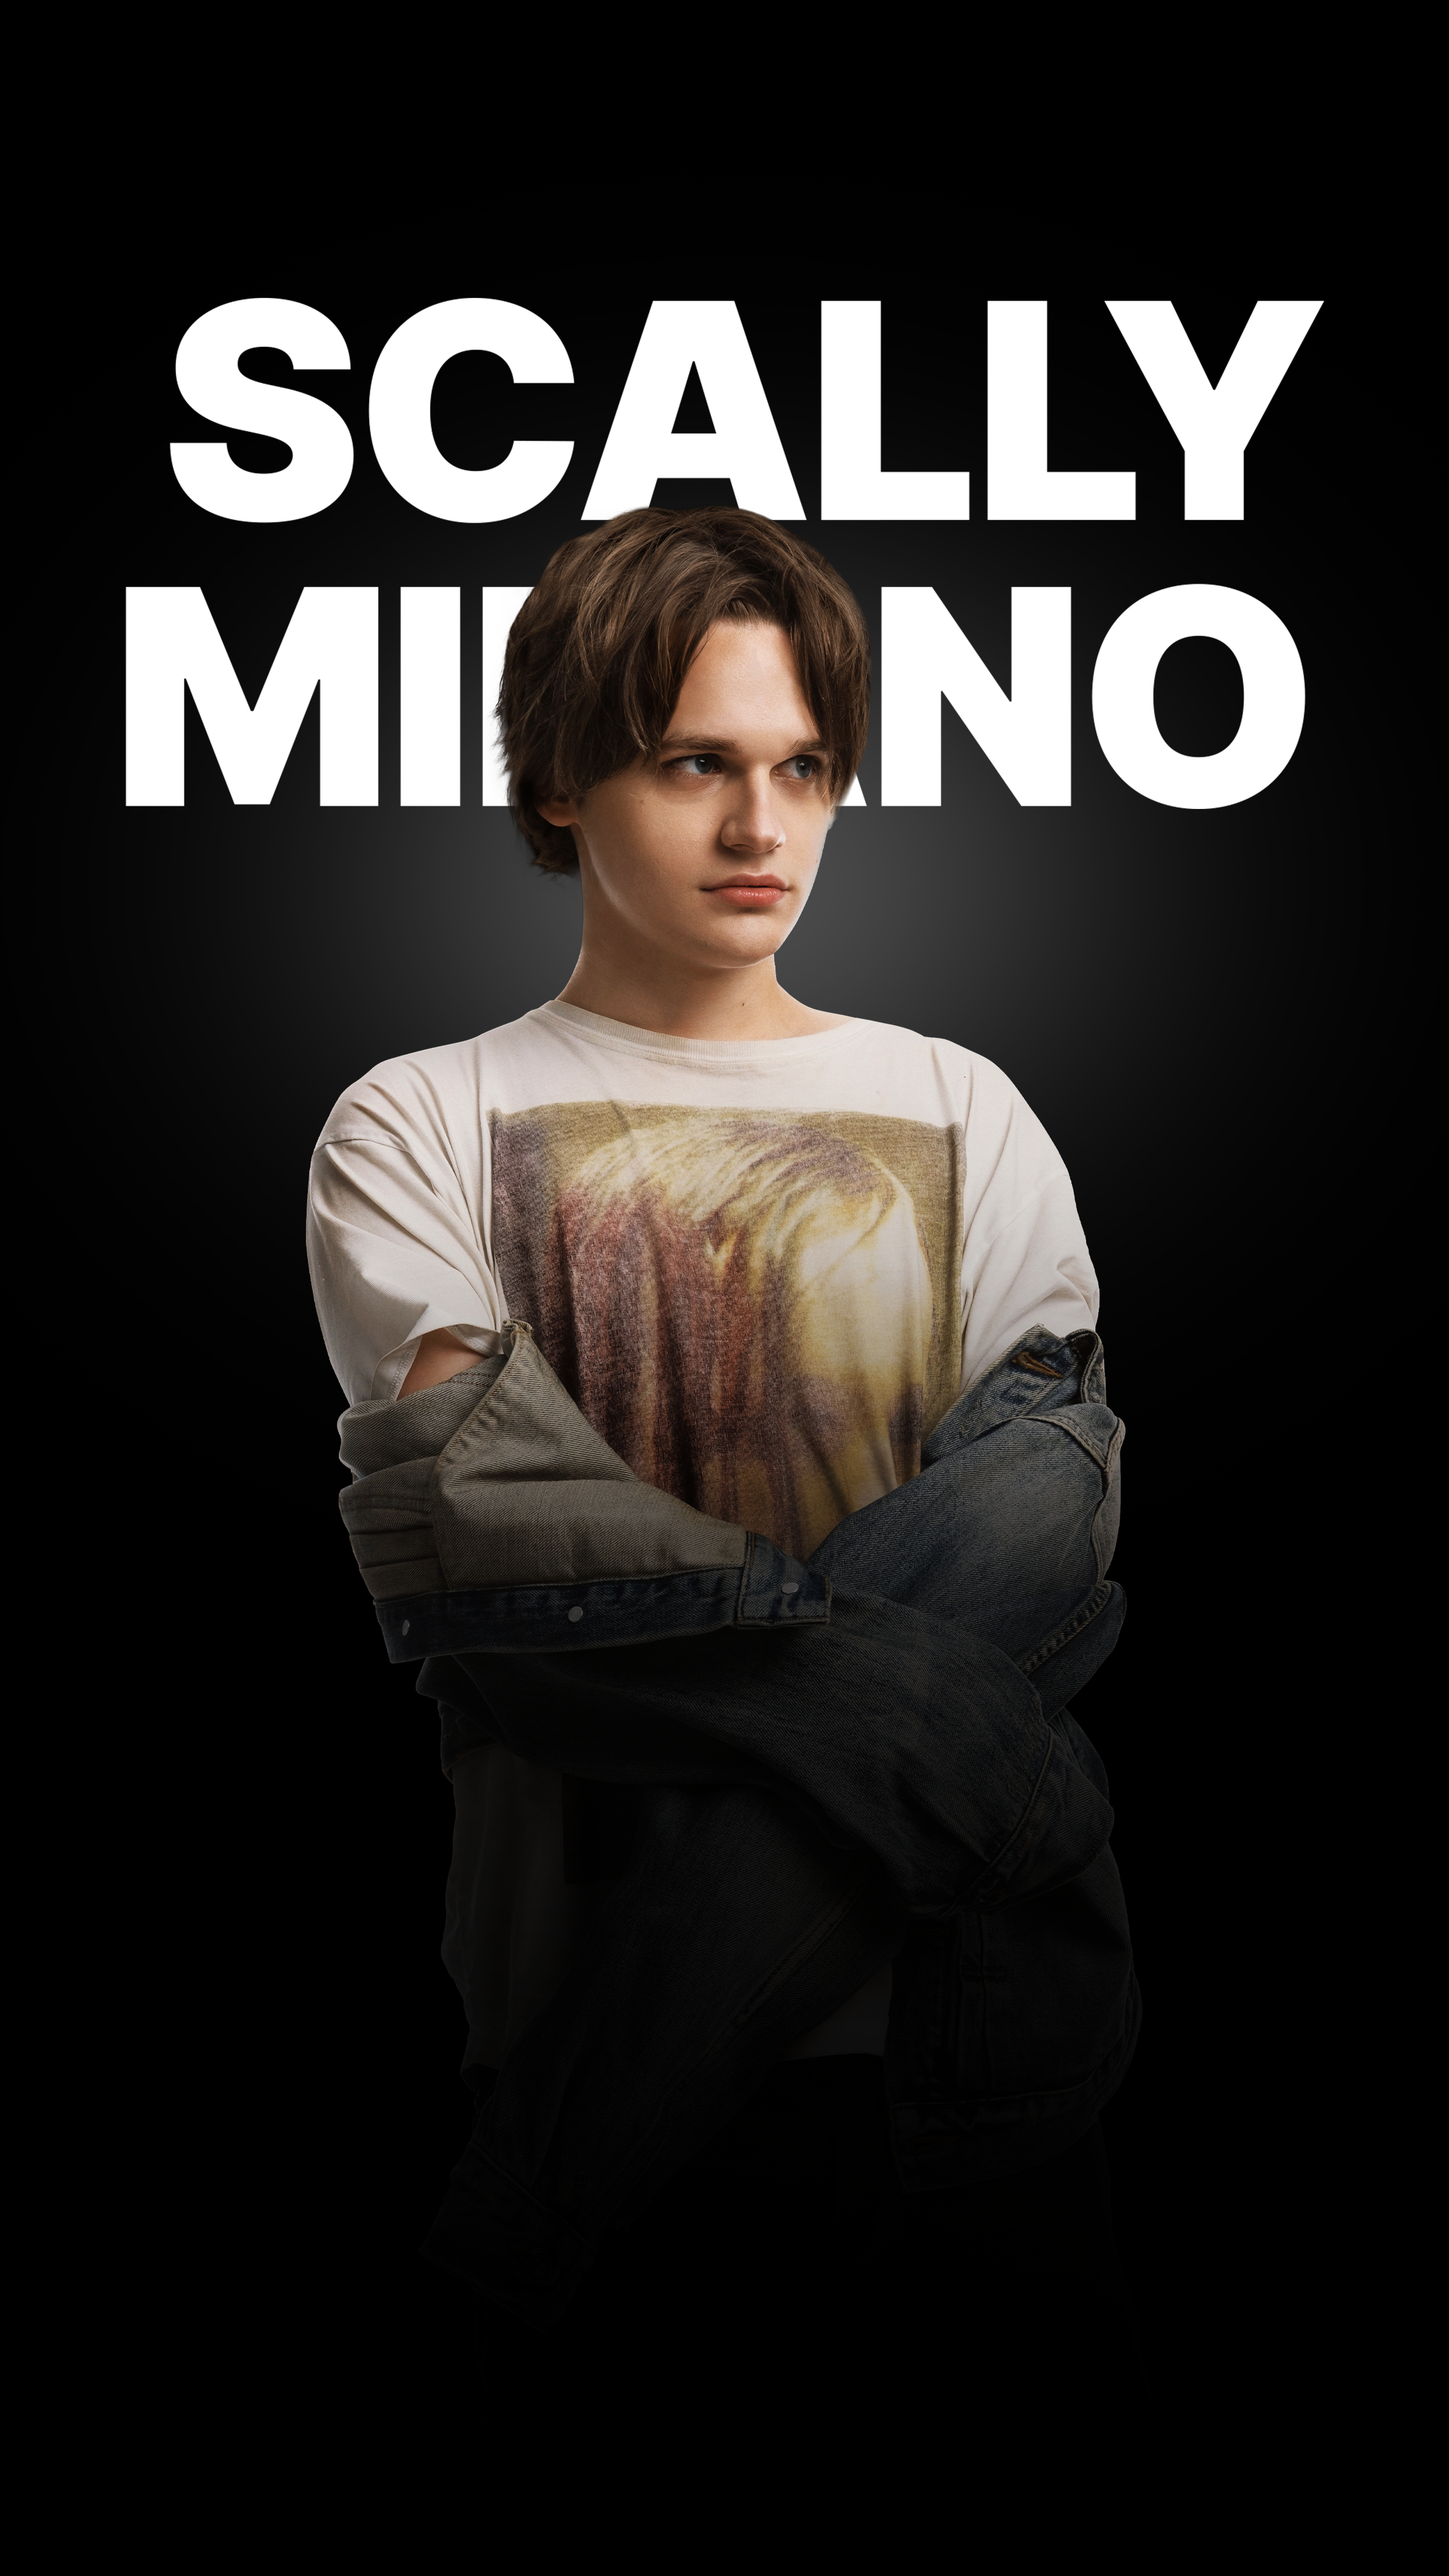
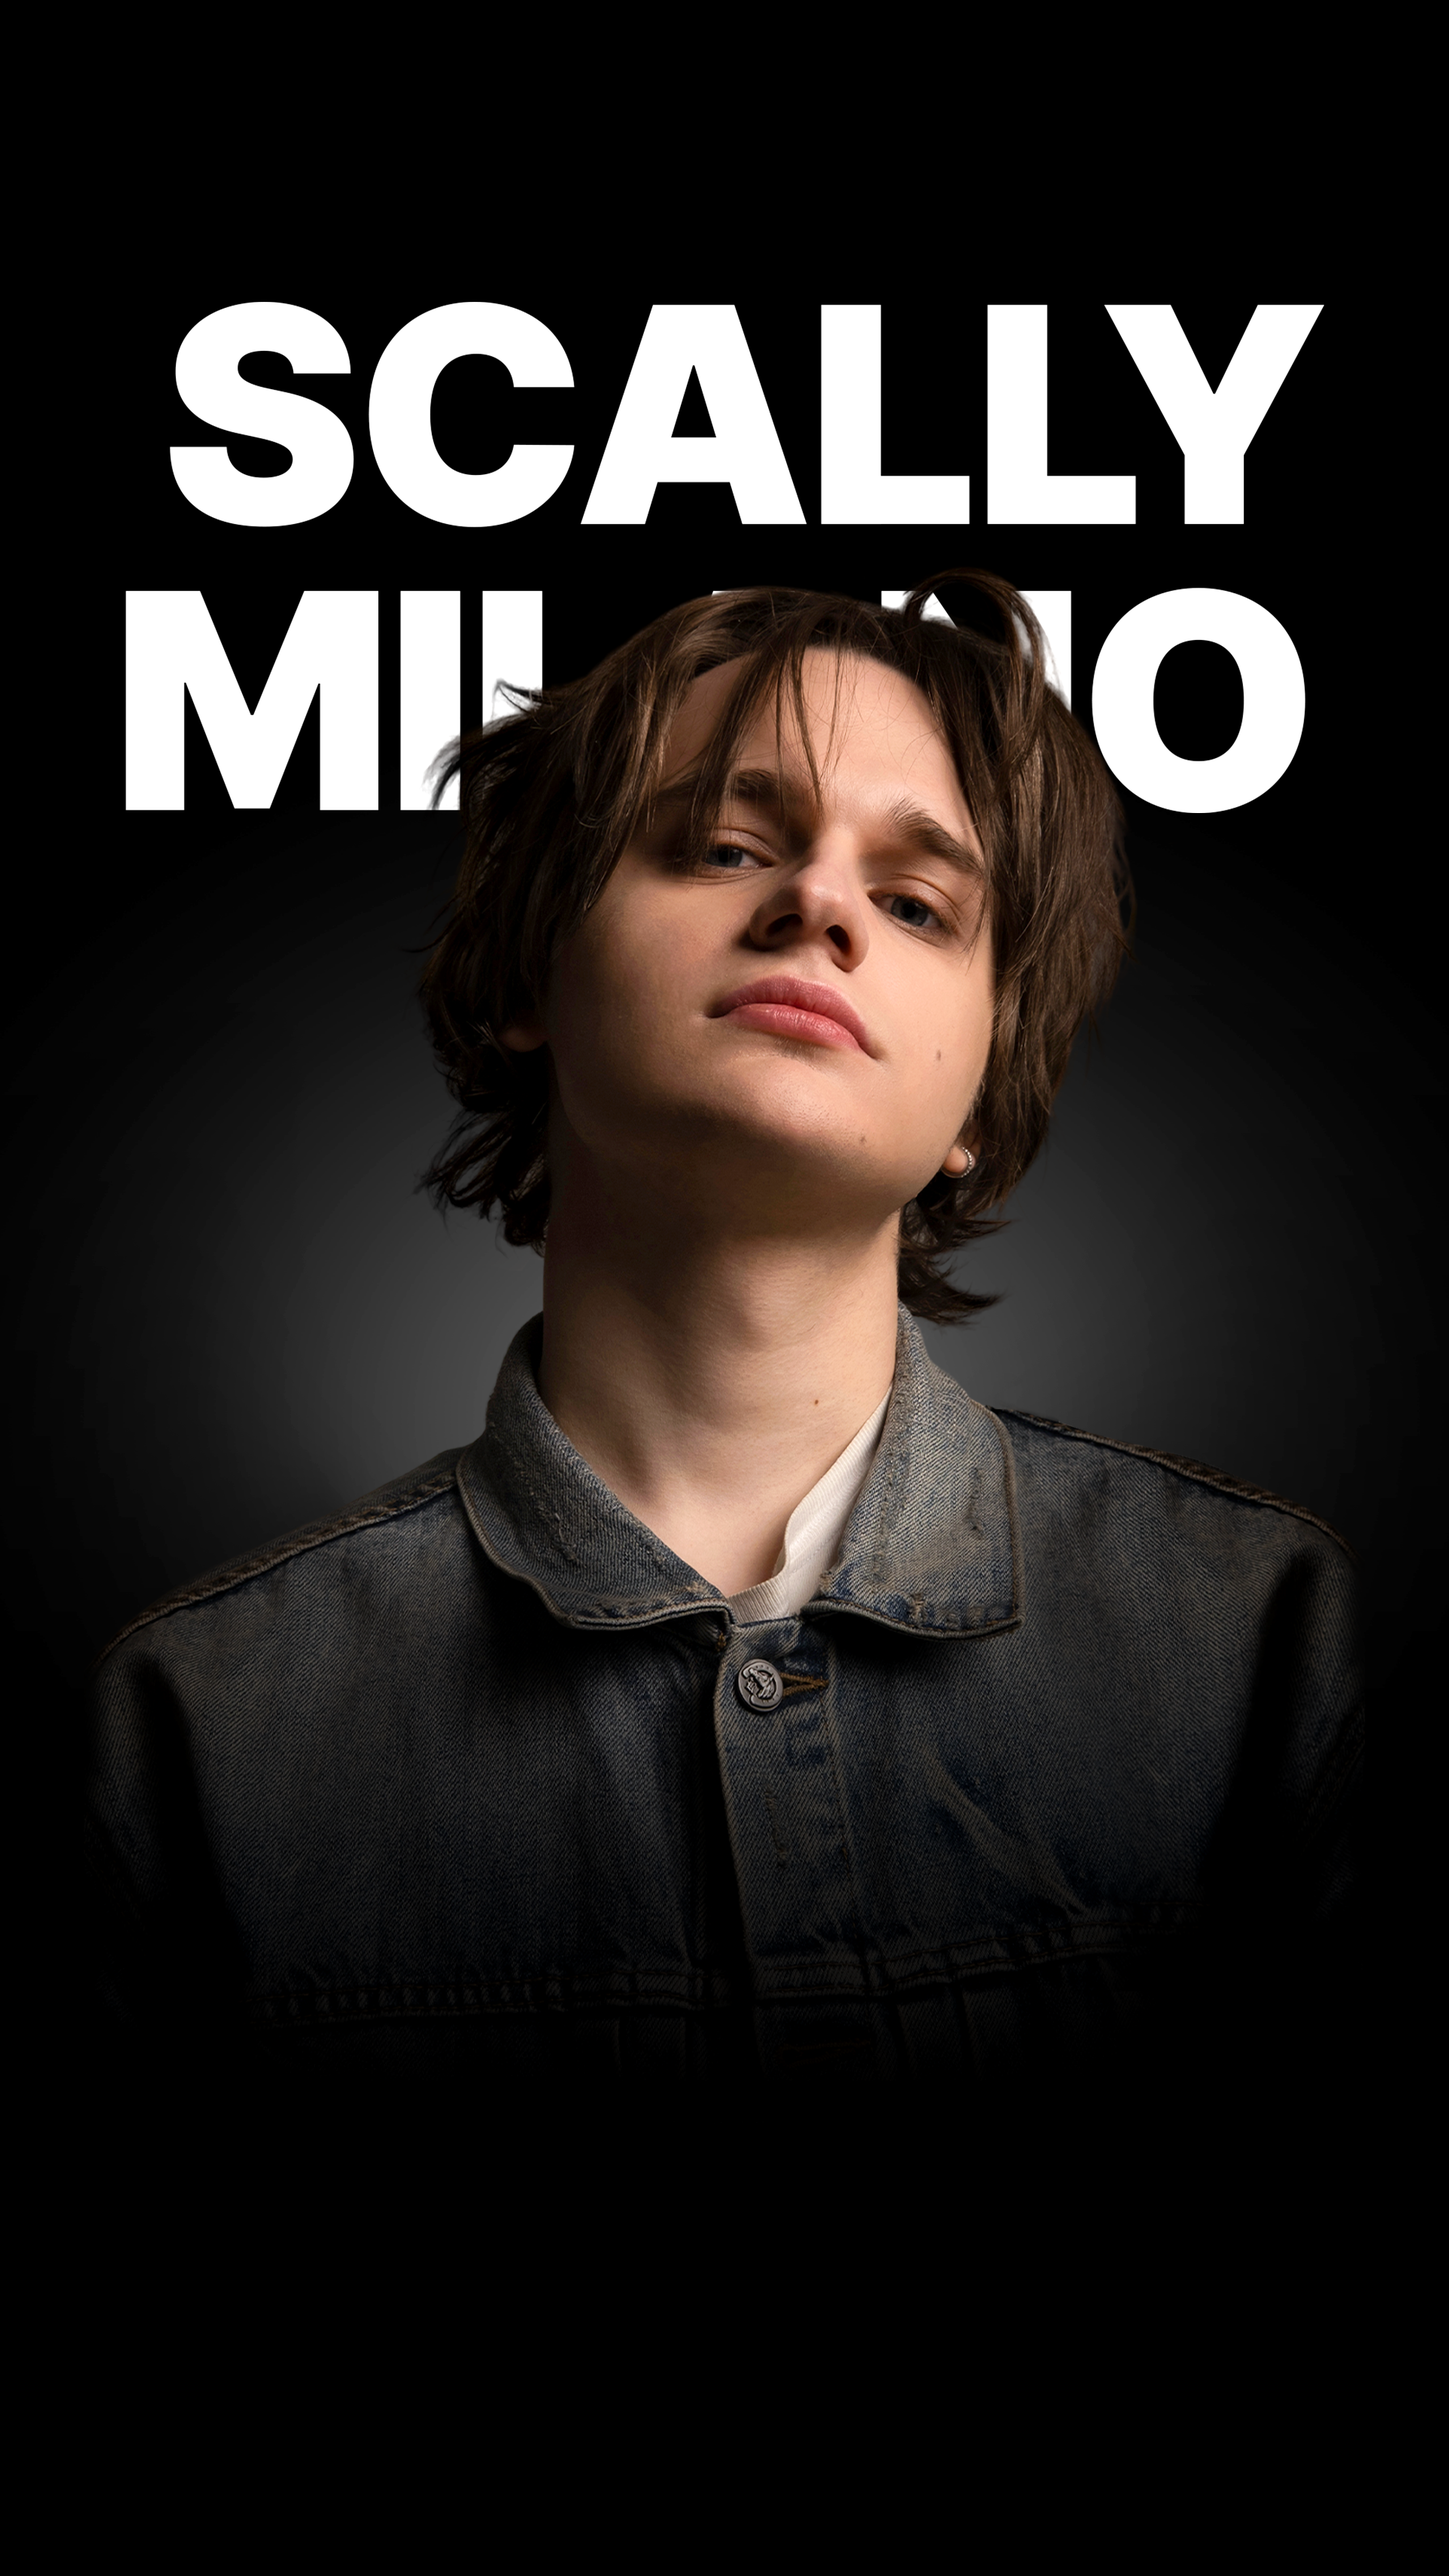
Описание изменений

diff --git a/src/content/site.ts b/src/content/site.ts
@@ -7,8 +7,8 @@ export const site: SiteConfig = {
   artistName: "Scally Milano",
   pageTitle: "Scally Milano — концерты",
   description: "Концерты и билеты Scally Milano.",
-  /** Герой: десктоп `public/ekran.webp`, мобила `public/hero-mobile.webp` (подключение в `hero-art.module.css`). */
-  heroImage: "/ekran.webp",
+  /** Герой: десктоп `public/hero-desktop.webp`, мобила `public/hero-mobile.webp` (см. `hero-art.module.css`). */
+  heroImage: "/hero-desktop.webp",
   ticketFallbackUrl: "https://t.me/scallymilanogram",
   socials: [
     {

diff --git a/src/components/hero-art.module.css b/src/components/hero-art.module.css
@@ -1,4 +1,4 @@
-/* Пути совпадают с `site.heroImage` (десктоп) и public/hero-mobile.webp (до md). */
+/* Совпадает с site.heroImage (десктоп) и public/hero-mobile.webp (мобила). Исходники в корне репозитория. */
 
 .shell {
   -webkit-touch-callout: none;
@@ -17,7 +17,7 @@
 
 @media (min-width: 768px) {
   .backdrop {
-    background-image: url("/ekran.webp");
+    background-image: url("/hero-desktop.webp");
     background-position: center;
   }
 }

diff --git a/DEPLOY-VPS.md b/DEPLOY-VPS.md
@@ -39,8 +39,8 @@ sudo mkdir -p /var/www/scally
 sudo chown -R "$USER:$USER" /var/www/scally
 cd /var/www/scally
 
-# Вариант A: Git
-git clone <ваш-remote> .
+# Вариант A: Git (репозиторий на GitHub может называться иначе папки локально)
+git clone https://github.com/egora04044-cell/skally.git .
 
 # Вариант B: с вашего ПК (из папки проекта)
 # rsync -avz --exclude node_modules --exclude .next ./ user@SERVER:/var/www/scally/
@@ -59,6 +59,12 @@ nano .env.production
 
 ```
 NEXT_PUBLIC_SITE_URL=https://ваш-домен.ru
+```
+
+Афиша из CSV (как локально с `CONCERTS_SHEET_CSV_URL` в `.env`; если не задать — подставится дефолт из кода):
+
+```
+CONCERTS_SHEET_CSV_URL=https://docs.google.com/spreadsheets/d/…/export?format=csv&gid=…
 ```
 
 По желанию (см. `.env.example`): `CANONICAL_SITE_HOST`, `NEXT_PUBLIC_LEGAL_EMAIL`, `NEXT_PUBLIC_OPERATOR_ADDRESS`.
